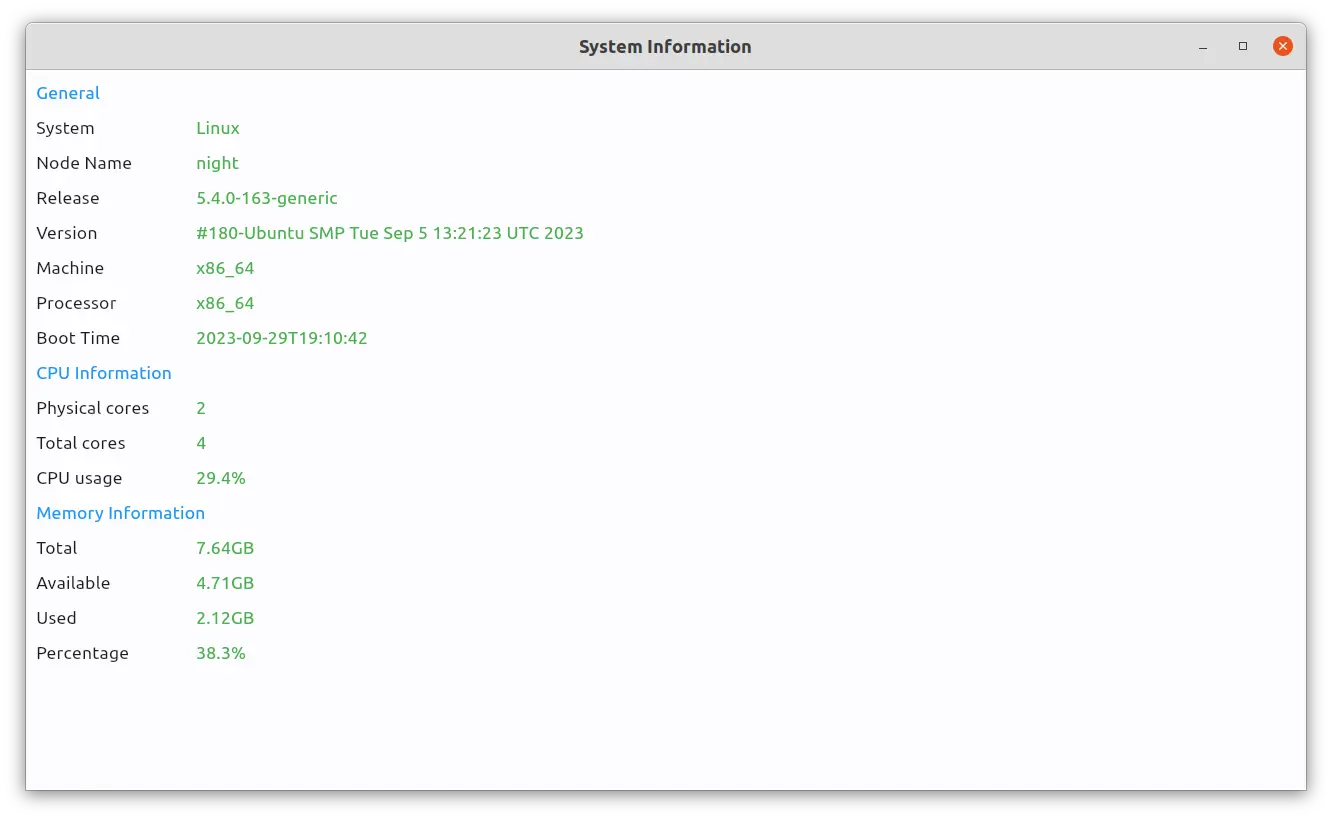
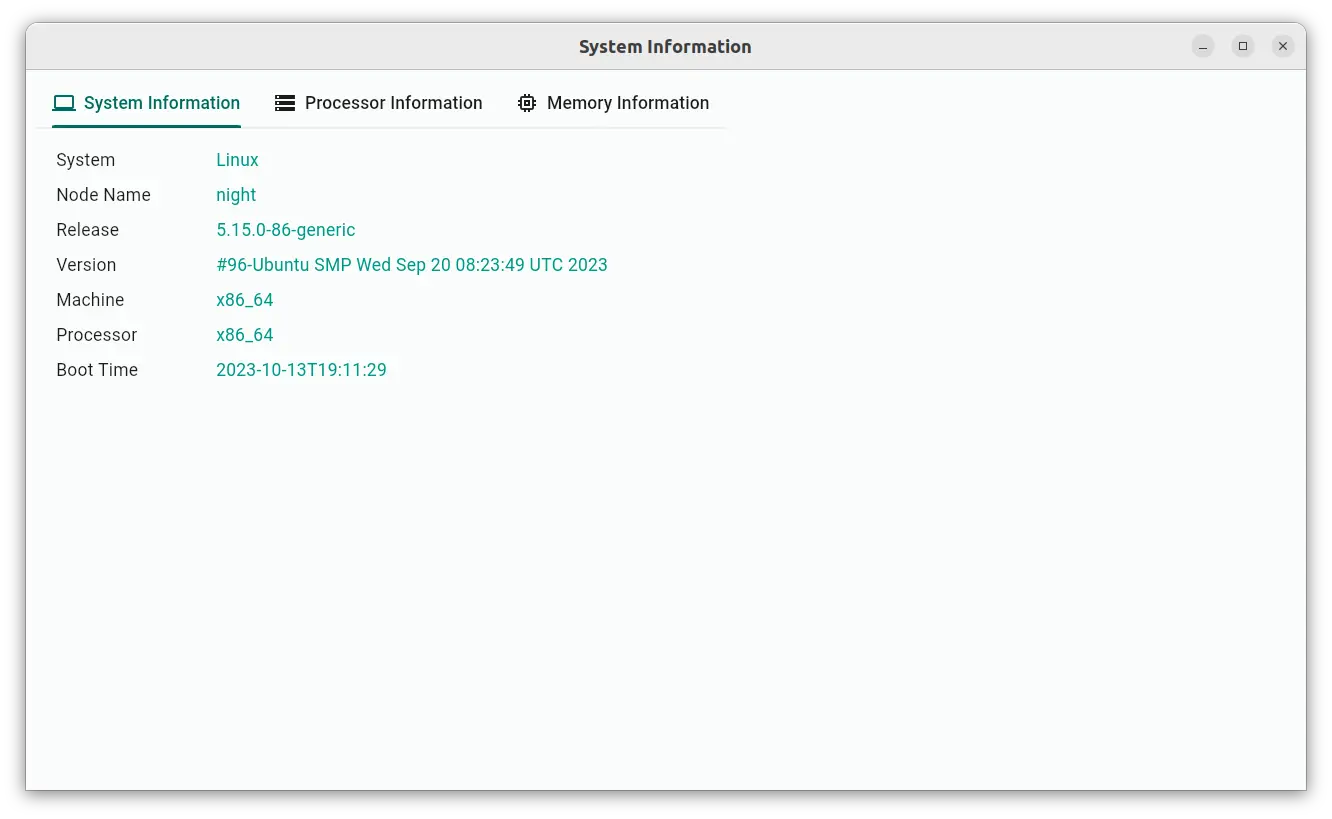
new look, added project files

diff --git a/main.py b/main.py
@@ -3,7 +3,6 @@ import psutil
 from datetime import datetime
 import flet as ft
 
-# Converts bytes to KB, MB, GB, TB, PB
 def get_size(bytes, suffix="B"):
     """
     Scale bytes to its proper format
@@ -22,70 +21,114 @@ boot_time_timestamp = psutil.boot_time()
 bt = datetime.fromtimestamp(boot_time_timestamp)
 svmem = psutil.virtual_memory()
 
-def main(page: ft.Page):
-    page.title = "System Information"
-    page.add(
-            ft.Column(controls = [
-                ft.Text("General", color="blue"),
+sys_info_tab=ft.Tab(
+    text='System Information',
+    icon=ft.icons.COMPUTER,
+    content=ft.Container(
+        padding=20,
+        content=ft.Column(
+            controls = [
                 ft.Row(controls = [
                     ft.Text("System", width=150),
-                    ft.Text(uname.system, color="green"),
+                    ft.Text(uname.system, color=ft.colors.TEAL),
                     ]),
                 ft.Row(controls = [
                     ft.Text("Node Name", width=150),
-                    ft.Text(uname.node, color="green"),
+                    ft.Text(uname.node, color=ft.colors.TEAL),
                     ]),
                 ft.Row(controls = [
                     ft.Text("Release", width=150),
-                    ft.Text(uname.release, color="green"),
+                    ft.Text(uname.release, color=ft.colors.TEAL),
                     ]),
                 ft.Row(controls = [
                     ft.Text("Version", width=150),
-                    ft.Text(uname.version, color="green"),
+                    ft.Text(uname.version, color=ft.colors.TEAL),
                     ]),
                 ft.Row(controls = [
                     ft.Text("Machine", width=150),
-                    ft.Text(uname.machine, color="green"),
+                    ft.Text(uname.machine, color=ft.colors.TEAL),
                     ]),
                 ft.Row(controls = [
                     ft.Text("Processor", width=150),
-                    ft.Text(uname.processor, color="green"),
+                    ft.Text(uname.processor, color=ft.colors.TEAL),
                     ]),
                 ft.Row(controls = [
                     ft.Text("Boot Time", width=150),
-                    ft.Text(bt, color = "green"),
+                    ft.Text(bt, color = ft.colors.TEAL),
                     ]),
-                ft.Text("CPU Information", color="blue"),
+                ],
+            ),
+        ),
+    )
+
+cpu_info_tab=ft.Tab(
+    text='Processor Information',
+    icon=ft.icons.STORAGE,
+    content=ft.Container(
+        padding=20,
+        content=ft.Column(
+            controls = [
                 ft.Row(controls = [
                     ft.Text("Physical cores", width=150),
-                    ft.Text(psutil.cpu_count(logical=False), color="green"),
+                    ft.Text(psutil.cpu_count(logical=False), color=ft.colors.TEAL),
                     ]),
                 ft.Row(controls = [
                     ft.Text("Total cores", width=150),
-                    ft.Text(psutil.cpu_count(logical=True), color="green"),
+                    ft.Text(psutil.cpu_count(logical=True), color=ft.colors.TEAL),
                     ]),
                 ft.Row(controls = [
                     ft.Text("CPU usage", width=150),
-                    ft.Text(f"{psutil.cpu_percent()}%", color="green"),
+                    ft.Text(f"{psutil.cpu_percent()}%", color=ft.colors.TEAL),
                     ]),
-                ft.Text("Memory Information", color="blue"),
+                ],
+            ),
+        ),
+    )
+
+mem_info_tab=ft.Tab(
+    text='Memory Information',
+    icon=ft.icons.MEMORY,
+    content=ft.Container(
+        padding=20,
+        content=ft.Column(
+            controls=[
                 ft.Row(controls = [
                     ft.Text("Total", width=150),
-                    ft.Text(get_size(svmem.total), color="green"),
+                    ft.Text(get_size(svmem.total), color=ft.colors.TEAL),
                     ]),
                 ft.Row(controls = [
                     ft.Text("Available", width=150),
-                    ft.Text(get_size(svmem.available), color="green"),
+                    ft.Text(get_size(svmem.available), color=ft.colors.TEAL),
                     ]),
                 ft.Row(controls = [
                     ft.Text("Used", width=150),
-                    ft.Text(get_size(svmem.used), color="green"),
+                    ft.Text(get_size(svmem.used), color=ft.colors.TEAL),
                     ]),
                 ft.Row(controls = [
                     ft.Text("Percentage", width=150),
-                    ft.Text(f"{svmem.percent}%", color="green"),
+                    ft.Text(f"{svmem.percent}%", color=ft.colors.TEAL),
                     ]),
-            ])
+                ],
+            ),
+        ),
     )
+
+
+tabs = ft.Tabs(
+    selected_index=0,
+    animation_duration=200,
+    tabs=[
+        sys_info_tab,
+        cpu_info_tab,
+        mem_info_tab,
+        ],
+    expand=1,
+    )
+
+
+def main(page: ft.Page):
+    page.title = "System Information"
+    page.theme = ft.theme.Theme(color_scheme_seed=ft.colors.TEAL)
+    page.add(tabs)
 
 ft.app(target = main)

diff --git a/docs/README.md b/docs/README.md
@@ -1,5 +1,19 @@
 # System Info
 
-See system information
+See Basic system information
 
 ![screenshot](/docs/screenshot.webp)
+
+## Build
+
+Install the dependencies
+
+```
+pip install -r requirements.txt
+```
+
+Run using flet
+
+```
+flet run [app_directory]
+```
